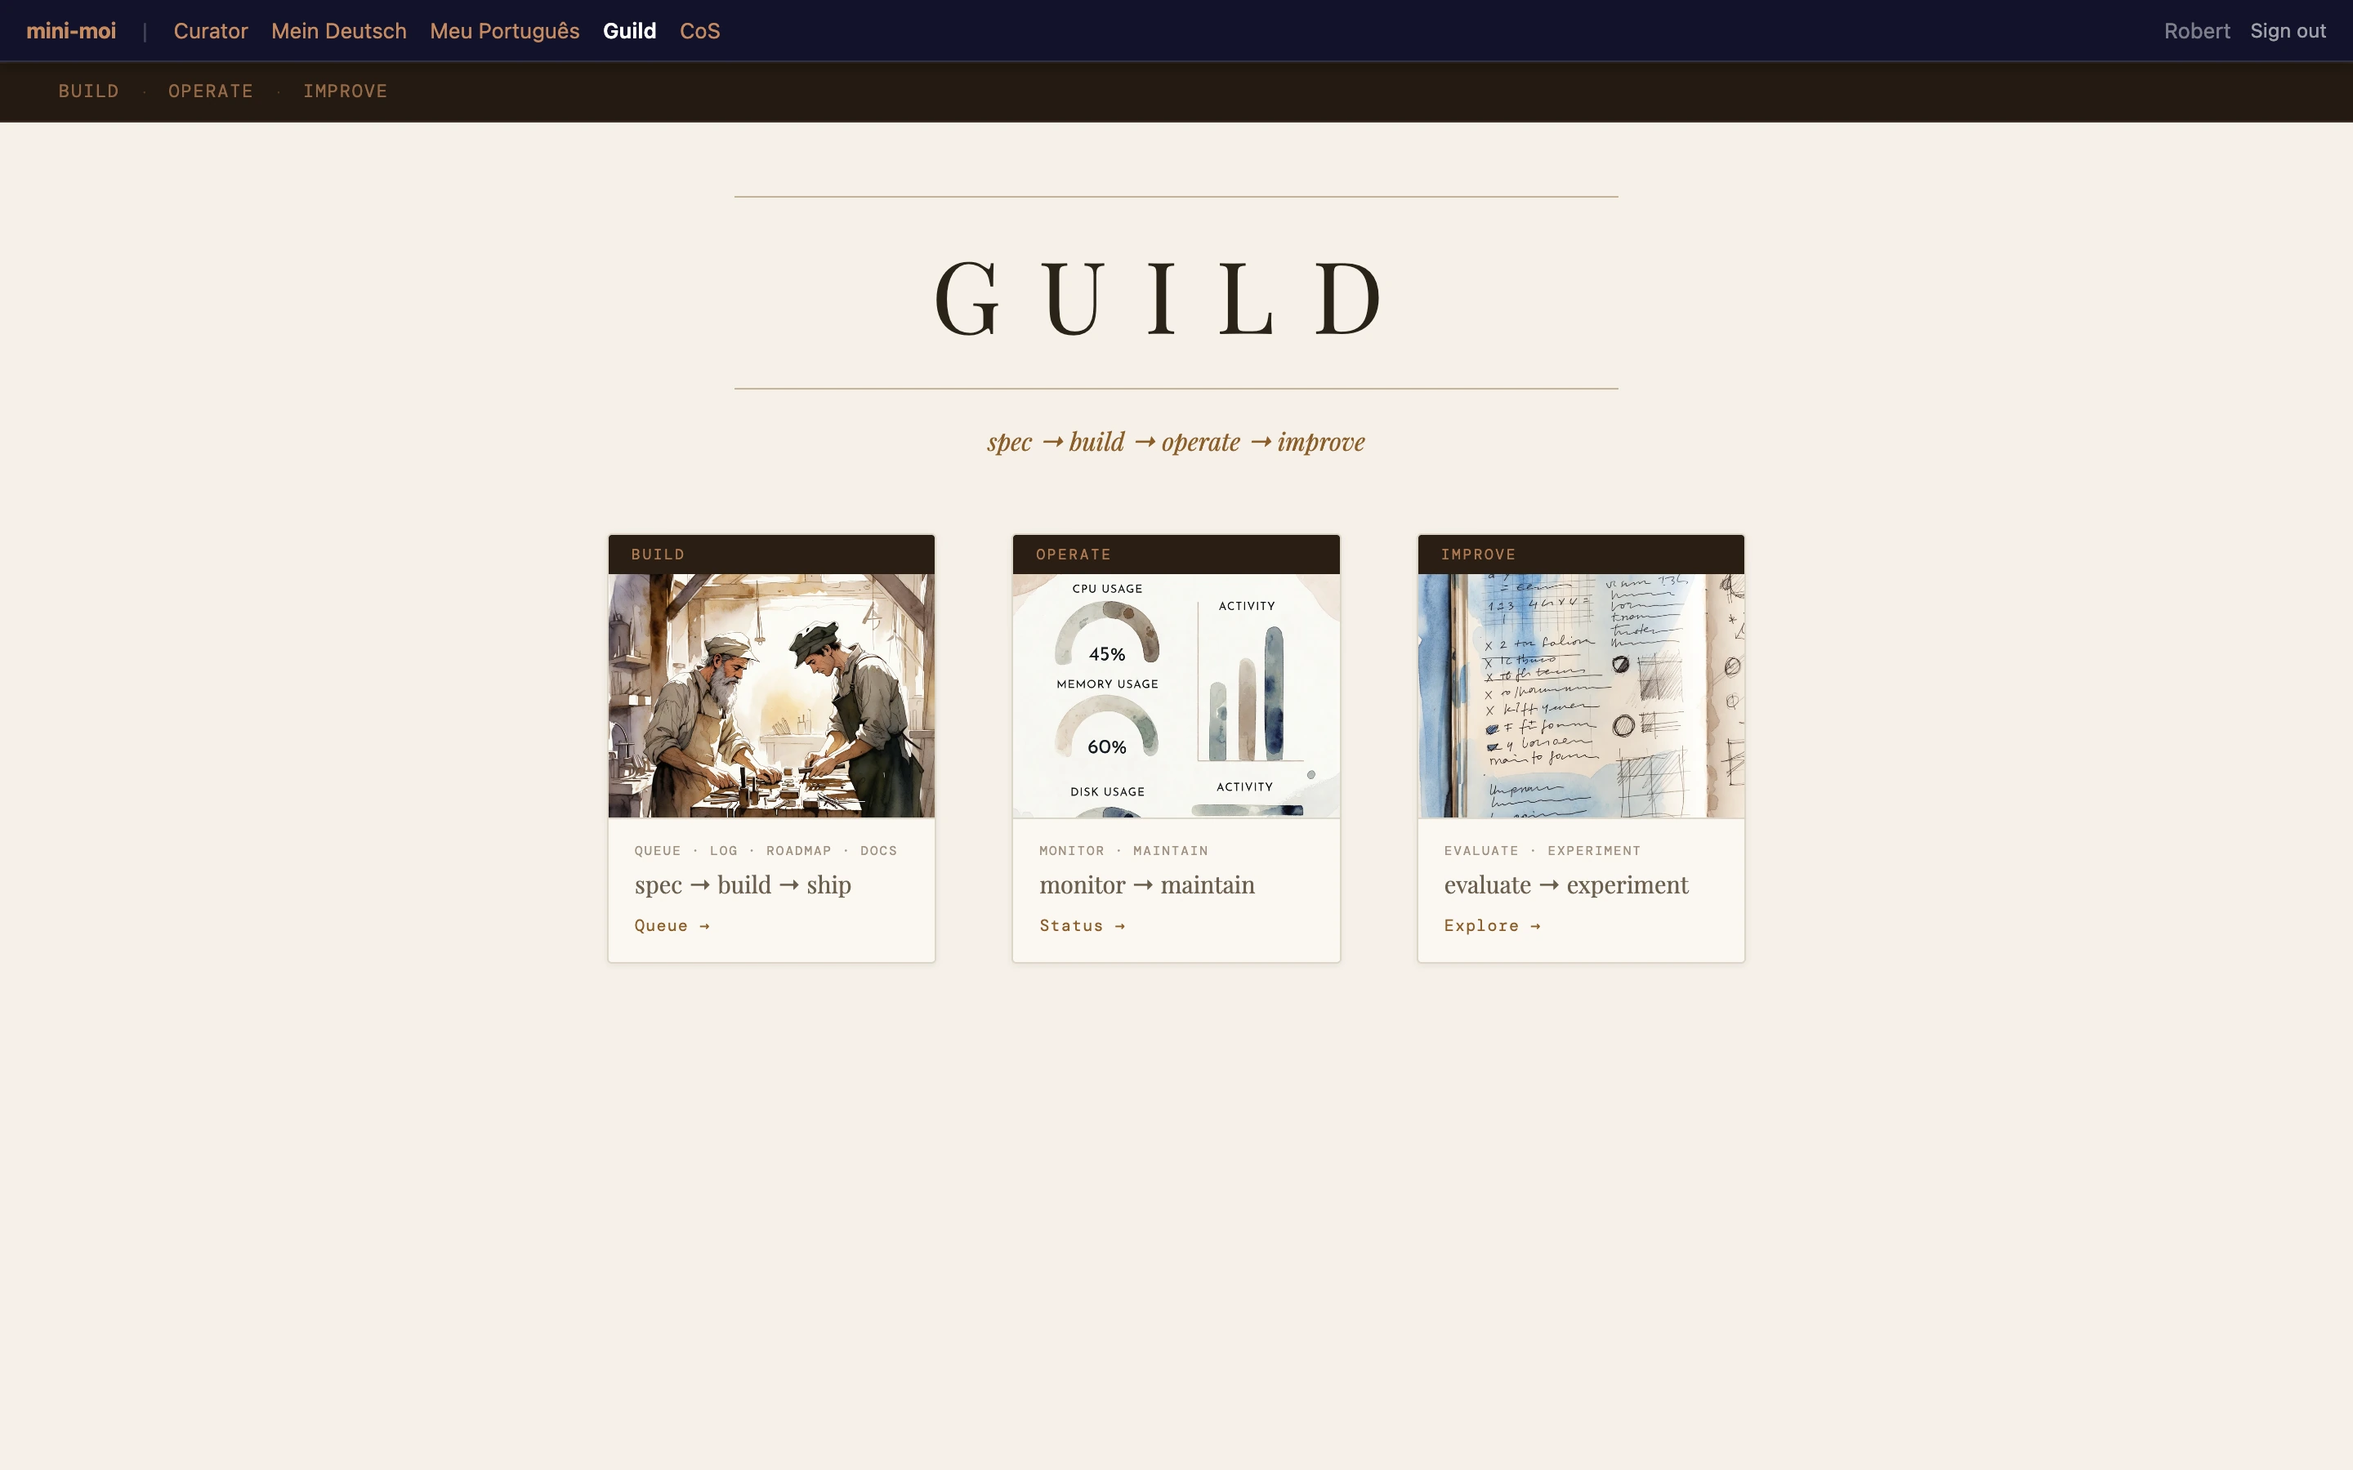
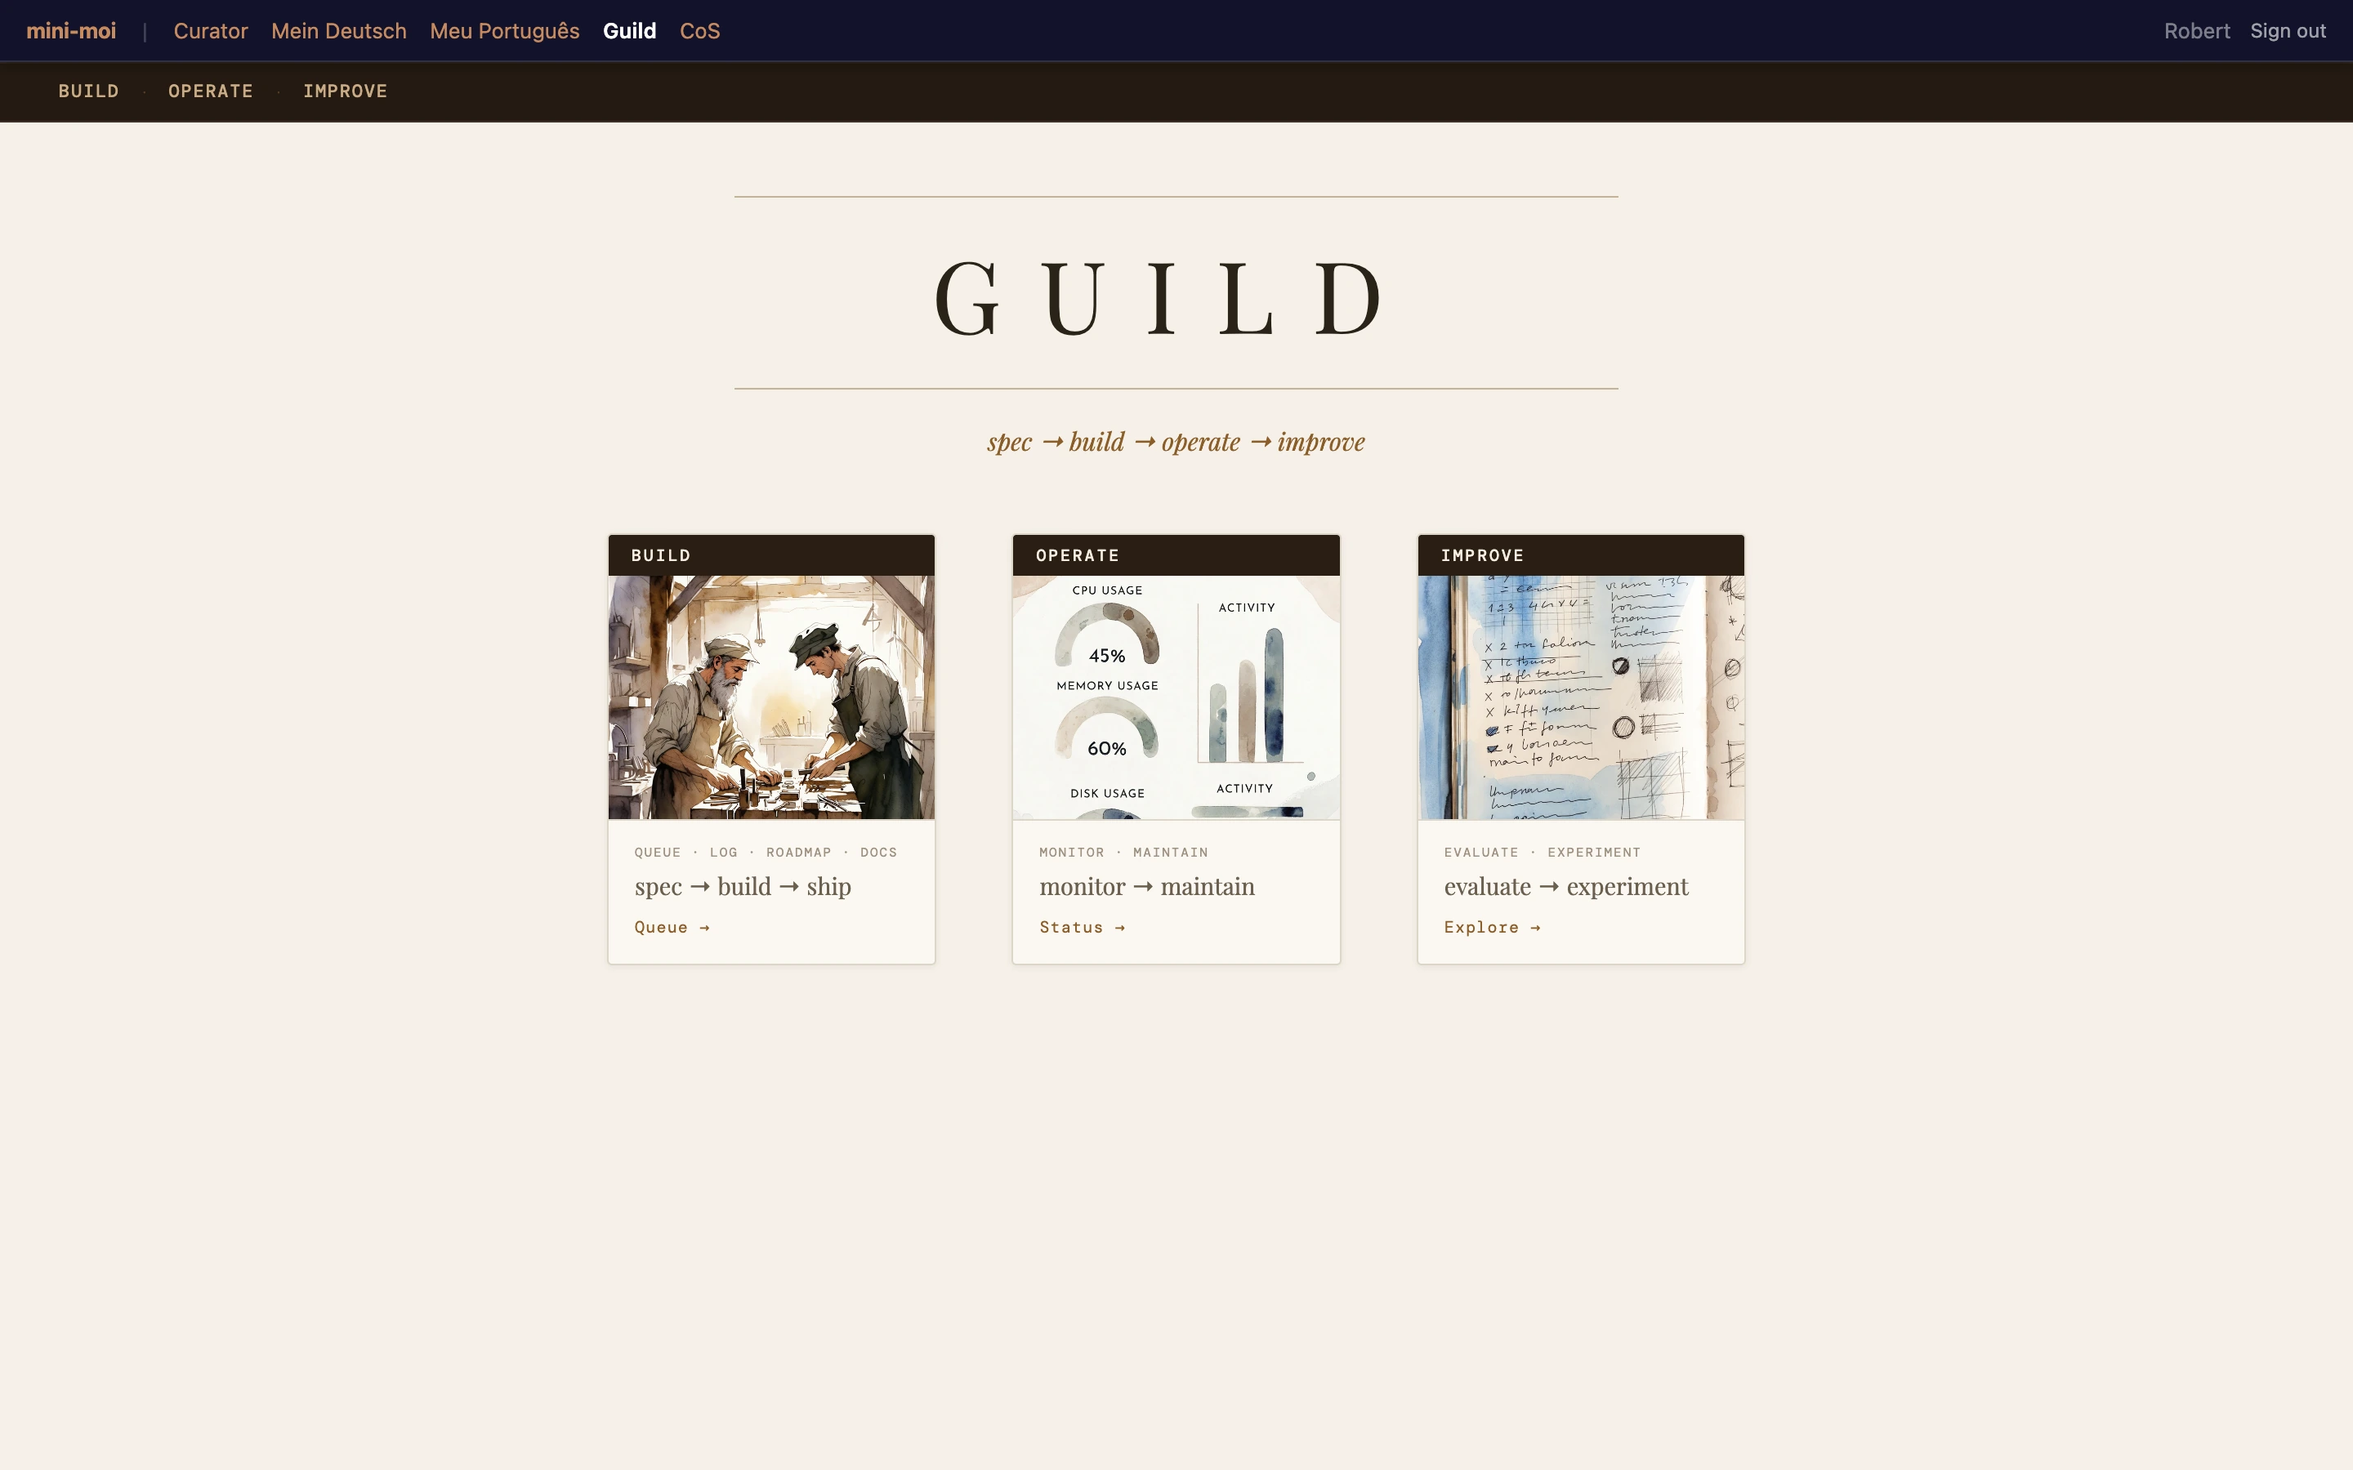
feat(portal): refresh Guild product tour

diff --git a/minimoi_portal/templates/tour.html b/minimoi_portal/templates/tour.html
@@ -584,108 +584,108 @@
     </ol>
     <div class="tour-gallery tour-gallery-pair">
       <figure class="tour-shot tour-shot-guild-landing">
-        <a class="tour-shot-link" href="/static/tour/01-guild-landing-desktop.webp?v=20260805-guildissues1"
+        <a class="tour-shot-link" href="/static/tour/01-guild-landing-desktop.webp?v=20260805-guildrefresh1"
            aria-label="View Guild landing full size">
-          <img src="/static/tour/01-guild-landing-desktop.webp?v=20260805-guildissues1"
+          <img src="/static/tour/01-guild-landing-desktop.webp?v=20260805-guildrefresh1"
                alt="Guild build and operations landing page"
                width="2880" height="1800" loading="lazy">
         </a>
         <figcaption><span>01</span> Start with spec, build, operate, and improve</figcaption>
       </figure>
       <figure class="tour-shot">
-        <a class="tour-shot-link" href="/static/tour/02-guild-build-queue-desktop.webp?v=20260805-guildissues1"
+        <a class="tour-shot-link" href="/static/tour/02-guild-build-queue-desktop.webp?v=20260805-guildrefresh1"
            aria-label="View Guild build queue full size">
-          <img src="/static/tour/02-guild-build-queue-desktop.webp?v=20260805-guildissues1"
+          <img src="/static/tour/02-guild-build-queue-desktop.webp?v=20260805-guildrefresh1"
                alt="Guild build queue"
                width="2880" height="1800" loading="lazy">
         </a>
         <figcaption><span>02</span> Follow work from spec ready through recently done</figcaption>
       </figure>
       <figure class="tour-shot">
-        <a class="tour-shot-link" href="/static/tour/03-guild-specification-desktop.webp?v=20260805-guildissues1"
+        <a class="tour-shot-link" href="/static/tour/03-guild-specification-desktop.webp?v=20260805-guildrefresh1"
            aria-label="View Guild specification full size">
-          <img src="/static/tour/03-guild-specification-desktop.webp?v=20260805-guildissues1"
+          <img src="/static/tour/03-guild-specification-desktop.webp?v=20260805-guildrefresh1"
                alt="Guild specification detail"
                width="2880" height="1800" loading="lazy">
         </a>
         <figcaption><span>03</span> Open the specification behind the work</figcaption>
       </figure>
       <figure class="tour-shot">
-        <a class="tour-shot-link" href="/static/tour/04-guild-spec-evaluation-desktop.webp?v=20260805-guildissues1"
+        <a class="tour-shot-link" href="/static/tour/04-guild-spec-evaluation-desktop.webp?v=20260805-guildrefresh1"
            aria-label="View Guild specification evaluation full size">
-          <img src="/static/tour/04-guild-spec-evaluation-desktop.webp?v=20260805-guildissues1"
+          <img src="/static/tour/04-guild-spec-evaluation-desktop.webp?v=20260805-guildrefresh1"
                alt="Guild specification evaluation and requirements"
                width="2880" height="1800" loading="lazy">
         </a>
         <figcaption><span>04</span> Review requirements and evaluation detail</figcaption>
       </figure>
       <figure class="tour-shot">
-        <a class="tour-shot-link" href="/static/tour/05-guild-build-log-desktop.webp?v=20260805-guildissues1"
+        <a class="tour-shot-link" href="/static/tour/05-guild-build-log-desktop.webp?v=20260805-guildrefresh1"
            aria-label="View Guild build log full size">
-          <img src="/static/tour/05-guild-build-log-desktop.webp?v=20260805-guildissues1"
+          <img src="/static/tour/05-guild-build-log-desktop.webp?v=20260805-guildrefresh1"
                alt="Guild build log"
                width="2880" height="1800" loading="lazy">
         </a>
         <figcaption><span>05</span> Follow completed work through the Build Log</figcaption>
       </figure>
       <figure class="tour-shot">
-        <a class="tour-shot-link" href="/static/tour/06-guild-issues-desktop.webp?v=20260805-guildissues1"
+        <a class="tour-shot-link" href="/static/tour/06-guild-issues-desktop.webp?v=20260805-guildrefresh1"
            aria-label="View Guild GitHub issues full size">
-          <img src="/static/tour/06-guild-issues-desktop.webp?v=20260805-guildissues1"
+          <img src="/static/tour/06-guild-issues-desktop.webp?v=20260805-guildrefresh1"
                alt="Open GitHub issues for the personal-ai-agents repository"
                width="2880" height="1800" loading="lazy">
         </a>
         <figcaption><span>06</span> Track active engineering work on GitHub</figcaption>
       </figure>
       <figure class="tour-shot">
-        <a class="tour-shot-link" href="/static/tour/07-guild-issue-context-desktop.webp?v=20260805-guildissues1"
+        <a class="tour-shot-link" href="/static/tour/07-guild-issue-context-desktop.webp?v=20260805-guildrefresh1"
            aria-label="View a Guild GitHub issue full size">
-          <img src="/static/tour/07-guild-issue-context-desktop.webp?v=20260805-guildissues1"
+          <img src="/static/tour/07-guild-issue-context-desktop.webp?v=20260805-guildrefresh1"
                alt="GitHub issue showing context, scope, and reference implementations"
                width="2880" height="1800" loading="lazy">
         </a>
         <figcaption><span>07</span> Open a real issue with context, scope, and references</figcaption>
       </figure>
       <figure class="tour-shot">
-        <a class="tour-shot-link" href="/static/tour/08-guild-issue-acceptance-desktop.webp?v=20260805-guildissues1"
+        <a class="tour-shot-link" href="/static/tour/08-guild-issue-acceptance-desktop.webp?v=20260805-guildrefresh1"
            aria-label="View Guild issue acceptance criteria full size">
-          <img src="/static/tour/08-guild-issue-acceptance-desktop.webp?v=20260805-guildissues1"
+          <img src="/static/tour/08-guild-issue-acceptance-desktop.webp?v=20260805-guildrefresh1"
                alt="GitHub issue showing reference implementations and acceptance criteria"
                width="2880" height="1800" loading="lazy">
         </a>
         <figcaption><span>08</span> Define acceptance criteria before the work is done</figcaption>
       </figure>
       <figure class="tour-shot">
-        <a class="tour-shot-link" href="/static/tour/09-guild-roadmap-desktop.webp?v=20260805-guildroadmap2"
+        <a class="tour-shot-link" href="/static/tour/09-guild-roadmap-desktop.webp?v=20260805-guildrefresh1"
            aria-label="View Guild roadmap full size">
-          <img src="/static/tour/09-guild-roadmap-desktop.webp?v=20260805-guildroadmap2"
+          <img src="/static/tour/09-guild-roadmap-desktop.webp?v=20260805-guildrefresh1"
                alt="mini-moi roadmap and shared human-agent direction"
                width="2880" height="1800" loading="lazy">
         </a>
         <figcaption><span>09</span> Keep the work aligned to a shared roadmap</figcaption>
       </figure>
       <figure class="tour-shot tour-shot-guild-transition">
-        <a class="tour-shot-link" href="/static/tour/10-guild-transition-desktop.webp?v=20260805-guildflow3"
+        <a class="tour-shot-link" href="/static/tour/10-guild-transition-desktop.webp?v=20260805-guildrefresh1"
            aria-label="View Guild transition to Operate and Improve full size">
-          <img src="/static/tour/10-guild-transition-desktop.webp?v=20260805-guildflow3"
+          <img src="/static/tour/10-guild-transition-desktop.webp?v=20260805-guildrefresh1"
                alt="Guild landing page showing Operate and Improve in redesign"
                width="2880" height="1800" loading="lazy">
         </a>
         <figcaption><span>10</span> Follow Operate and Improve through redesign</figcaption>
       </figure>
       <figure class="tour-shot">
-        <a class="tour-shot-link" href="/static/tour/11-guild-operate-desktop.webp?v=20260805-guildflow5"
+        <a class="tour-shot-link" href="/static/tour/11-guild-operate-desktop.webp?v=20260805-guildrefresh1"
            aria-label="View Guild Operations full size">
-          <img src="/static/tour/11-guild-operate-desktop.webp?v=20260805-guildflow5"
+          <img src="/static/tour/11-guild-operate-desktop.webp?v=20260805-guildrefresh1"
                alt="Guild Operations system status and access management with private email domains obscured"
                width="2880" height="1800" loading="lazy">
         </a>
         <figcaption><span>11</span> Monitor system health and access</figcaption>
       </figure>
       <figure class="tour-shot">
-        <a class="tour-shot-link" href="/static/tour/12-guild-improve-desktop.webp?v=20260805-guildissues1"
+        <a class="tour-shot-link" href="/static/tour/12-guild-improve-desktop.webp?v=20260805-guildrefresh1"
            aria-label="View Guild Improve full size">
-          <img src="/static/tour/12-guild-improve-desktop.webp?v=20260805-guildissues1"
+          <img src="/static/tour/12-guild-improve-desktop.webp?v=20260805-guildrefresh1"
                alt="Guild Improve page for exploration, experiments, and improvement"
                width="2880" height="1800" loading="lazy">
         </a>

diff --git a/tests/test_auth.py b/tests/test_auth.py
@@ -218,7 +218,13 @@ def test_public_tour_is_chooser_only_with_privacy_safe_cos(client):
         for img in soup.select('.tour-domain-map img[src^="/static/tour/"]')
     ]
     assert len(map_images) == 5
-    assert all((static_root / src.removeprefix("/static/")).is_file() for src in map_images)
+    assert all(
+        (
+            static_root
+            / src.split("?", 1)[0].removeprefix("/static/")
+        ).is_file()
+        for src in map_images
+    )
     images = [
         img.get("src")
         for img in soup.select('.tour-shot img[src^="/static/tour/"]')
@@ -237,7 +243,7 @@ def test_public_tour_is_chooser_only_with_privacy_safe_cos(client):
         "curator": "/static/tour/01-curator-landing-desktop.webp?v=20260802-curatordesktop1",
         "german": "/static/tour/01-german-landing-desktop.webp?v=20260804-germandesktop1",
         "portuguese": "/static/tour/01-portuguese-landing-desktop.webp?v=20260804-portuguesedesktop1",
-        "guild": "/static/tour/01-guild-landing-desktop.webp?v=20260805-guildissues1",
+        "guild": "/static/tour/01-guild-landing-desktop.webp?v=20260805-guildrefresh1",
         "cos": "/static/tour/01-cos-landing-desktop.webp?v=20260804-cosdesktop1",
     }
     for section_id, expected_src in expected_first_images.items():
@@ -364,19 +370,7 @@ def test_public_tour_is_chooser_only_with_privacy_safe_cos(client):
     assert [
         img.get("src") for img in soup.select("section#guild .tour-shot img")
     ] == [
-        (
-            f"/static/tour/{name}?v=20260805-guildroadmap2"
-            if name == "09-guild-roadmap-desktop.webp"
-            else (
-                f"/static/tour/{name}?v=20260805-guildflow3"
-                if name == "10-guild-transition-desktop.webp"
-                else (
-                    f"/static/tour/{name}?v=20260805-guildflow5"
-                    if name == "11-guild-operate-desktop.webp"
-                    else f"/static/tour/{name}?v=20260805-guildissues1"
-                )
-            )
-        )
+        f"/static/tour/{name}?v=20260805-guildrefresh1"
         for name in (
             "01-guild-landing-desktop.webp",
             "02-guild-build-queue-desktop.webp",

diff --git a/tests/test_cos_guild_visual_polish.py b/tests/test_cos_guild_visual_polish.py
@@ -13,6 +13,15 @@ APPROVED_CONFER_PHOTO_SHA256 = (
 APPROVED_CONFER_SLIDE_SHA256 = (
[1 lines of base64/hex data omitted]
 )
+APPROVED_GUILD_LANDING_SHA256 = (
[1 lines of base64/hex data omitted]
+)
+APPROVED_GUILD_TRANSITION_SHA256 = (
[1 lines of base64/hex data omitted]
+)
+APPROVED_GUILD_OPERATE_SHA256 = (
[1 lines of base64/hex data omitted]
+)
 
 
 def _sha256(path: Path) -> str:
@@ -62,7 +71,7 @@ def test_public_cos_confer_slide_restores_photo_version():
 def test_guild_and_cos_cards_use_full_landscape_captures():
     workspaces = {workspace["key"]: workspace for workspace in WORKSPACES}
     expected = {
-        "guild": "/static/tour/01-guild-landing-desktop.webp",
+        "guild": "/static/tour/01-guild-landing-desktop.webp?v=20260805-guildrefresh1",
         "cos": "/static/tour/01-cos-landing-desktop.webp",
     }
 
@@ -71,8 +80,22 @@ def test_guild_and_cos_cards_use_full_landscape_captures():
         asset = (
             ROOT
             / "minimoi_portal/static"
-            / public_path.removeprefix("/static/")
+            / public_path.split("?", 1)[0].removeprefix("/static/")
         )
+        with Image.open(asset) as image:
+            assert image.size == (2880, 1800)
+
+
+def test_guild_public_slides_are_the_approved_privacy_safe_refresh():
+    expected = {
+        "01-guild-landing-desktop.webp": APPROVED_GUILD_LANDING_SHA256,
+        "10-guild-transition-desktop.webp": APPROVED_GUILD_TRANSITION_SHA256,
+        "11-guild-operate-desktop.webp": APPROVED_GUILD_OPERATE_SHA256,
+    }
+
+    for name, approved_hash in expected.items():
+        asset = ROOT / "minimoi_portal/static/tour" / name
+        assert _sha256(asset) == approved_hash
         with Image.open(asset) as image:
             assert image.size == (2880, 1800)
 

diff --git a/minimoi_portal/workspaces.py b/minimoi_portal/workspaces.py
@@ -42,7 +42,7 @@ WORKSPACES = (
         "path": "/guild",
         "eyebrow": "Build and operations",
         "summary": "Specs, build work, operating status, and the next iteration.",
-        "image": "/static/tour/01-guild-landing-desktop.webp",
+        "image": "/static/tour/01-guild-landing-desktop.webp?v=20260805-guildrefresh1",
         "public_visible": True,
     },
     {
